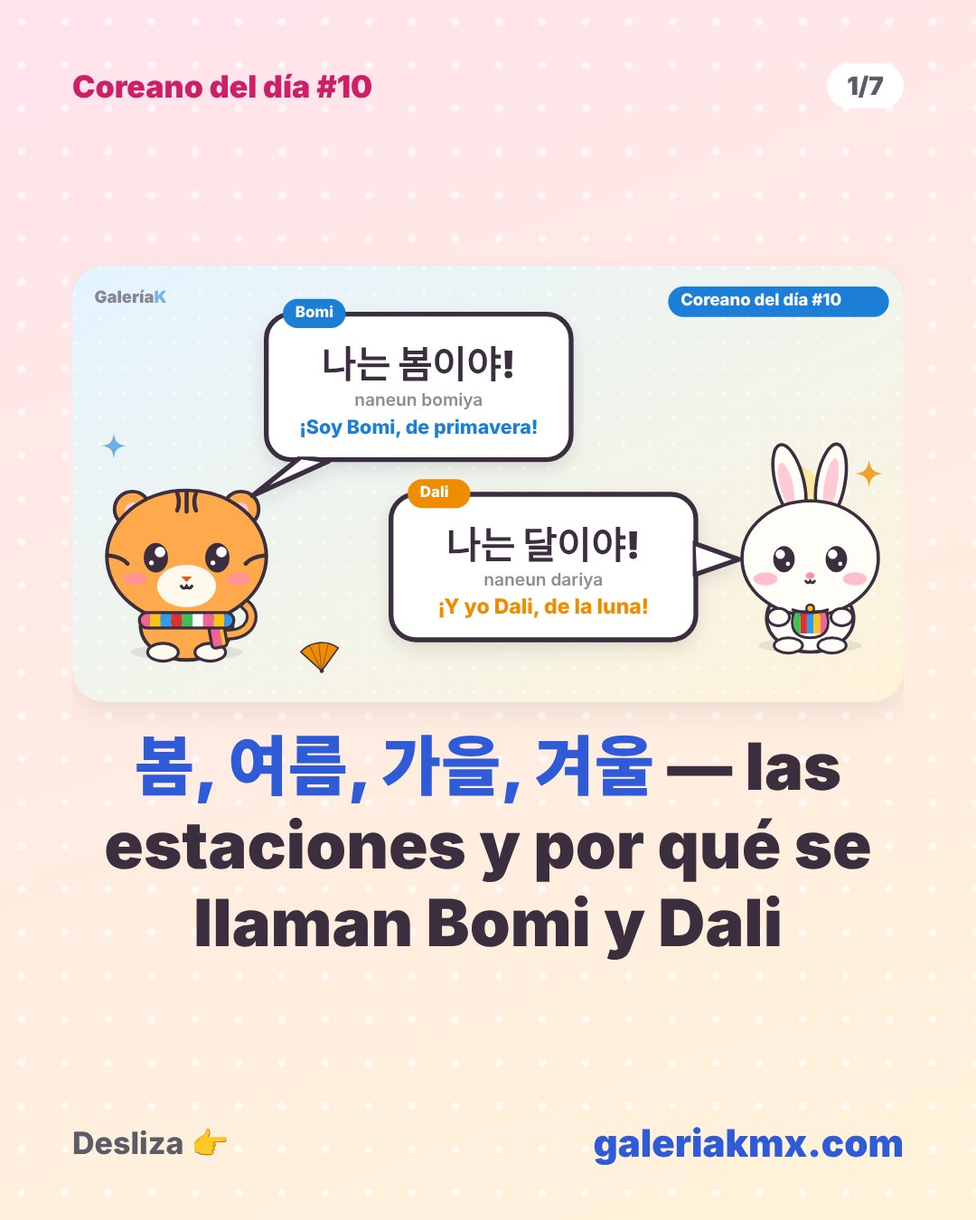
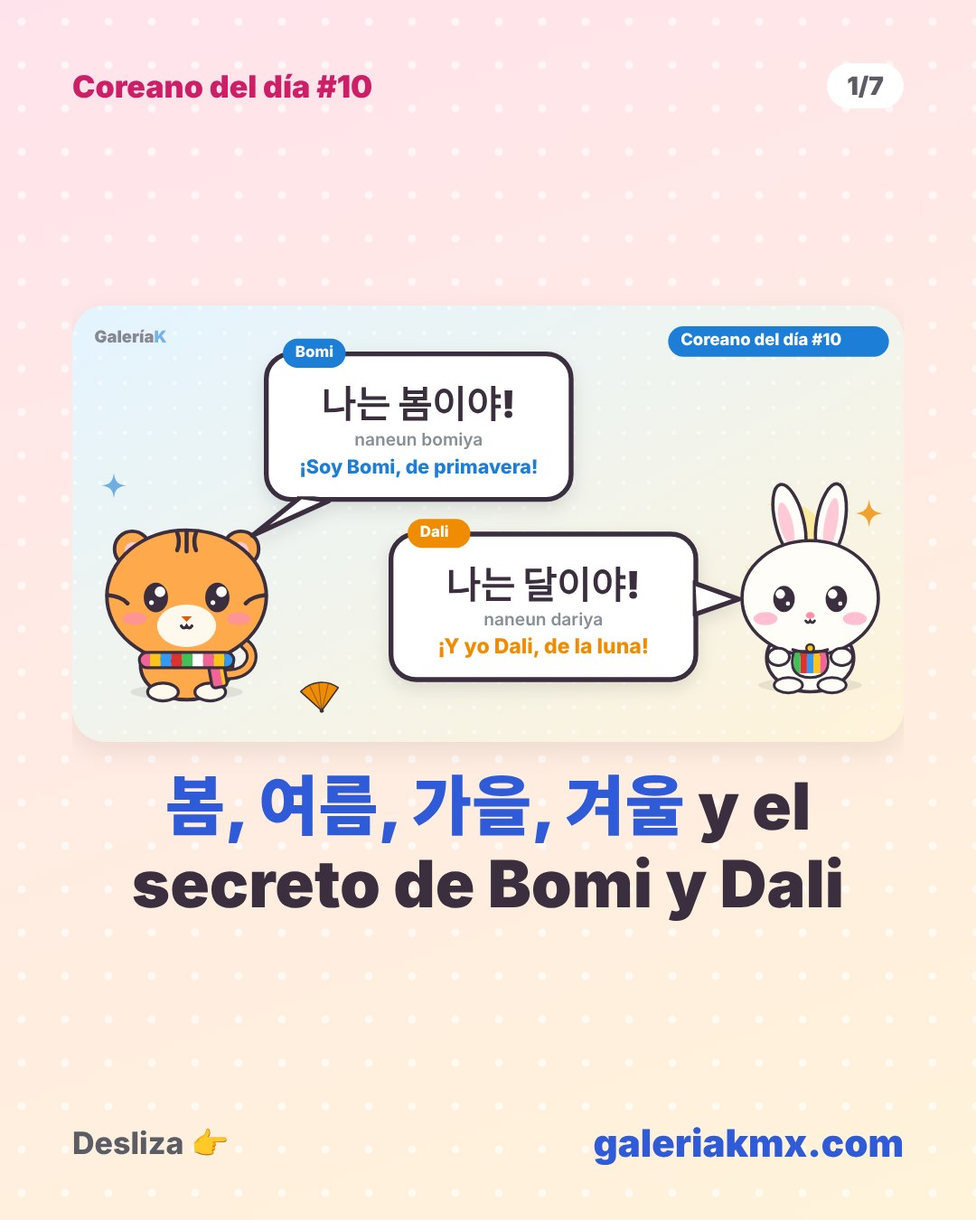
diario: título #10 ≤80 (fallo 23514 del 17-nov) y validación a 80 caracteres

Changed region(s): [[0.0611, 0.2178, 0.9167, 0.8089], [0.6722, 0.2178, 0.9167, 0.3111]]

diff --git a/site/sns/index.html b/site/sns/index.html
@@ -13,7 +13,7 @@ textarea{width:100%;box-sizing:border-box;min-height:150px;border:1px solid #ddd
 <header><h1>📲 GaleríaK 틱톡 키트</h1><p>매일 저녁 6시 37분(멕시코) 오늘의 카드뉴스(3~9장)가 틱톡 앱 받은편지함으로 자동 도착해요. 알림 열기 → 문구 확인 → 게시!</p></header>
 <main><div id="hoy"></div><div class="c how"><b>예비용: 직접 예약하는 방법 (자동 전송이 안 될 때)</b><ol><li>아래 카드마다 <b>📤 카드뉴스 공유/저장</b>을 눌러 사진을 받아요.</li><li><a href="https://www.tiktok.com/tiktokstudio/upload" target="_blank" rel="noopener">TikTok Studio 업로드</a>에서 사진(여러 장)을 올리고, <b>📋 문구 복사</b>한 걸 설명에 붙여 넣어요.</li><li>「예약(Schedule)」을 켜고 카드에 적힌 <b>예약 시간</b>을 넣어요.</li></ol><p class="hint" style="font-size:13px;color:#666">휴대폰에서는 📤 카드뉴스 공유 → 틱톡을 고르면 바로 사진 게시물로 올라가요. 이 페이지는 매일 자동으로 새 10일 치로 바뀌어요(D1 = 가장 가까운 날).</p></div><div id="lista"></div></main>
 <script>
-const ITEMS=[{"n": 10, "slug": "010-estaciones-bomi-dali", "titulo": "Coreano del día #10: 봄, 여름, 가을, 겨울 — las estaciones y por qué se llaman Bomi y Dali", "etiqueta": "D1", "img": "/img/diario/010-estaciones-bomi-dali.svg", "texto": "📚 Coreano del día #10: 봄, 여름, 가을, 겨울 — las estaciones y por qué se llaman Bomi y Dali\n\n🐯 Bomi: 나는 봄이야! (naneun bomiya) — ¡Soy Bomi, de primavera!\n🐰 Dali: 나는 달이야! (naneun dariya) — ¡Y yo Dali, de la luna!\n\nLa lección completa, con ejemplos y mini reto, está gratis en GaleríaK 👉 galeriakmx.com (link en la bio)\n\n¿Ya sabes tu nivel de coreano? Haz el examen gratis en la web 🐯🐰\n\n#coreano #aprendecoreano #kpop #kdrama #kpopmexico", "fecha": "11/18(mié) 19:00 멕시코 = 한국 11/19 10:00", "fotos": ["/img/sns/010-estaciones-bomi-dali/01.jpg", "/img/sns/010-estaciones-bomi-dali/02.jpg", "/img/sns/010-estaciones-bomi-dali/03.jpg", "/img/sns/010-estaciones-bomi-dali/04.jpg", "/img/sns/010-estaciones-bomi-dali/05.jpg", "/img/sns/010-estaciones-bomi-dali/06.jpg", "/img/sns/010-estaciones-bomi-dali/07.jpg"]}, {"n": 0, "slug": "examen", "titulo": "Examen de coreano gratis (publicación fija)", "etiqueta": "D2", "img": "/img/mascotas/bomi-dali.svg", "examen": true, "texto": "¿Qué tanto coreano sabes? 🇰🇷\n\nHaz gratis el examen estilo TOPIK de GaleríaK: 30 preguntas de vocabulario, lectura y audio, con tu nivel del 1 al 6 y explicaciones en español. Sin cuenta.\n\n👉 galeriakmx.com/examen-coreano (link en la bio)\n\nComparte tu resultado y reta a tus amigas y amigos 🐯🐰\n\n#coreano #aprendecoreano #kpop #kdrama #kpopmexico", "fotos": ["/img/sns/examen/01.jpg", "/img/sns/examen/02.jpg", "/img/sns/examen/03.jpg"], "fecha": "11/19(jue) 19:00 멕시코 = 한국 11/20 10:00"}, {"n": 11, "slug": "011-comentarios-apoyo", "titulo": "Coreano del día #11: Comentarios en coreano para apoyar a tu grupo favorito", "etiqueta": "D3", "img": "/img/diario/011-comentarios-apoyo.svg", "texto": "📚 Coreano del día #11: Comentarios en coreano para apoyar a tu grupo favorito\n\n수고했어요! (sugohaesseoyo) = ¡Buen trabajo!\n\nLa lección completa, con ejemplos y mini reto, está gratis en GaleríaK 👉 galeriakmx.com (link en la bio)\n\n¿Ya sabes tu nivel de coreano? Haz el examen gratis en la web 🐯🐰\n\n#coreano #aprendecoreano #kpop #kdrama #kpopmexico", "fecha": "11/20(vie) 19:00 멕시코 = 한국 11/21 10:00", "fotos": ["/img/sns/011-comentarios-apoyo/01.jpg", "/img/sns/011-comentarios-apoyo/02.jpg", "/img/sns/011-comentarios-apoyo/03.jpg", "/img/sns/011-comentarios-apoyo/04.jpg", "/img/sns/011-comentarios-apoyo/05.jpg", "/img/sns/011-comentarios-apoyo/06.jpg", "/img/sns/011-comentarios-apoyo/07.jpg"]}, {"n": 12, "slug": "012-dias-semana", "titulo": "Coreano del día #12: Los días de la semana en coreano y su secreto planetario", "etiqueta": "D4", "img": "/img/diario/012-dias-semana.svg", "texto": "📚 Coreano del día #12: Los días de la semana en coreano y su secreto planetario\n\n🐯 Bomi: 무슨 요일이야? (museun yoiriya?) — ¿Qué día es hoy?\n🐰 Dali: 금요일이야! (geumyoiriya) — ¡Es viernes!\n\nLa lección completa, con ejemplos y mini reto, está gratis en GaleríaK 👉 galeriakmx.com (link en la bio)\n\n¿Ya sabes tu nivel de coreano? Haz el examen gratis en la web 🐯🐰\n\n#coreano #aprendecoreano #kpop #kdrama #kpopmexico", "fecha": "11/21(sáb) 19:00 멕시코 = 한국 11/22 10:00", "fotos": ["/img/sns/012-dias-semana/01.jpg", "/img/sns/012-dias-semana/02.jpg", "/img/sns/012-dias-semana/03.jpg", "/img/sns/012-dias-semana/04.jpg", "/img/sns/012-dias-semana/05.jpg", "/img/sns/012-dias-semana/06.jpg", "/img/sns/012-dias-semana/07.jpg", "/img/sns/012-dias-semana/08.jpg"]}, {"n": 13, "slug": "013-reacciones", "titulo": "Coreano del día #13: 헐, 아이고 y 어머 — reacciones coreanas que usarás todos los días", "etiqueta": "D5", "img": "/img/diario/013-reacciones.svg", "texto": "📚 Coreano del día #13: 헐, 아이고 y 어머 — reacciones coreanas que usarás todos los días\n\n헐! (heol) = ¡No puede ser!\n\nLa lección completa, con ejemplos y mini reto, está gratis en GaleríaK 👉 galeriakmx.com (link en la bio)\n\n¿Ya sabes tu nivel de coreano? Haz el examen gratis en la web 🐯🐰\n\n#coreano #aprendecoreano #kpop #kdrama #kpopmexico", "fecha": "11/22(dom) 19:00 멕시코 = 한국 11/23 10:00", "fotos": ["/img/sns/013-reacciones/01.jpg", "/img/sns/013-reacciones/02.jpg", "/img/sns/013-reacciones/03.jpg", "/img/sns/013-reacciones/04.jpg", "/img/sns/013-reacciones/05.jpg", "/img/sns/013-reacciones/06.jpg", "/img/sns/013-reacciones/07.jpg"]}, {"n": 14, "slug": "014-antojitos-invierno", "titulo": "Coreano del día #14: 붕어빵, 호떡 y 군고구마 — los antojitos del invierno coreano", "etiqueta": "D6", "img": "/img/diario/014-antojitos-invierno.svg", "texto": "📚 Coreano del día #14: 붕어빵, 호떡 y 군고구마 — los antojitos del invierno coreano\n\n붕어빵 주세요 (bungeoppang juseyo) = Un pan de pescadito, por favor\n\nLa lección completa, con ejemplos y mini reto, está gratis en GaleríaK 👉 galeriakmx.com (link en la bio)\n\n¿Ya sabes tu nivel de coreano? Haz el examen gratis en la web 🐯🐰\n\n#coreano #aprendecoreano #kpop #kdrama #kpopmexico", "fecha": "11/23(lun) 19:00 멕시코 = 한국 11/24 10:00", "fotos": ["/img/sns/014-antojitos-invierno/01.jpg", "/img/sns/014-antojitos-invierno/02.jpg", "/img/sns/014-antojitos-invierno/03.jpg", "/img/sns/014-antojitos-invierno/04.jpg", "/img/sns/014-antojitos-invierno/05.jpg", "/img/sns/014-antojitos-invierno/06.jpg", "/img/sns/014-antojitos-invierno/07.jpg"]}, {"n": 15, "slug": "015-sageuk-historicos", "titulo": "Coreano del día #15: 전하, 마마 y 궁 — el coreano de los K-Dramas históricos", "etiqueta": "D7", "img": "/img/diario/015-sageuk-historicos.svg", "texto": "📚 Coreano del día #15: 전하, 마마 y 궁 — el coreano de los K-Dramas históricos\n\n🐯 Bomi: 전하! (jeonha!) — ¡Su Majestad!\n🐰 Dali: 무슨 일이오? (museun irio?) — ¿Qué sucede?\n\nLa lección completa, con ejemplos y mini reto, está gratis en GaleríaK 👉 galeriakmx.com (link en la bio)\n\n¿Ya sabes tu nivel de coreano? Haz el examen gratis en la web 🐯🐰\n\n#coreano #aprendecoreano #kpop #kdrama #kpopmexico", "fecha": "11/24(mar) 19:00 멕시코 = 한국 11/25 10:00", "fotos": ["/img/sns/015-sageuk-historicos/01.jpg", "/img/sns/015-sageuk-historicos/02.jpg", "/img/sns/015-sageuk-historicos/03.jpg", "/img/sns/015-sageuk-historicos/04.jpg", "/img/sns/015-sageuk-historicos/05.jpg", "/img/sns/015-sageuk-historicos/06.jpg", "/img/sns/015-sageuk-historicos/07.jpg"]}, {"n": 16, "slug": "016-presentarte", "titulo": "Coreano del día #16: 저는 ___이에요 — cómo presentarte en coreano", "etiqueta": "D8", "img": "/img/diario/016-presentarte.svg", "texto": "📚 Coreano del día #16: 저는 ___이에요 — cómo presentarte en coreano\n\n저는 멕시코 사람이에요 (jeoneun meksiko saramieyo) = Soy de México\n\nLa lección completa, con ejemplos y mini reto, está gratis en GaleríaK 👉 galeriakmx.com (link en la bio)\n\n¿Ya sabes tu nivel de coreano? Haz el examen gratis en la web 🐯🐰\n\n#coreano #aprendecoreano #kpop #kdrama #kpopmexico", "fecha": "11/25(mié) 19:00 멕시코 = 한국 11/26 10:00", "fotos": ["/img/sns/016-presentarte/01.jpg", "/img/sns/016-presentarte/02.jpg", "/img/sns/016-presentarte/03.jpg", "/img/sns/016-presentarte/04.jpg", "/img/sns/016-presentarte/05.jpg", "/img/sns/016-presentarte/06.jpg", "/img/sns/016-presentarte/07.jpg"]}, {"n": 17, "slug": "017-suneung-suerte", "titulo": "Coreano del día #17: 수능 y 시험 잘 봐! — cómo desear suerte en un examen", "etiqueta": "D9", "img": "/img/diario/017-suneung-suerte.svg", "texto": "📚 Coreano del día #17: 수능 y 시험 잘 봐! — cómo desear suerte en un examen\n\n시험 잘 봐! (siheom jal bwa) = ¡Que te vaya bien en el examen!\n\nLa lección completa, con ejemplos y mini reto, está gratis en GaleríaK 👉 galeriakmx.com (link en la bio)\n\n¿Ya sabes tu nivel de coreano? Haz el examen gratis en la web 🐯🐰\n\n#coreano #aprendecoreano #kpop #kdrama #kpopmexico", "fecha": "11/26(jue) 19:00 멕시코 = 한국 11/27 10:00", "fotos": ["/img/sns/017-suneung-suerte/01.jpg", "/img/sns/017-suneung-suerte/02.jpg", "/img/sns/017-suneung-suerte/03.jpg", "/img/sns/017-suneung-suerte/04.jpg", "/img/sns/017-suneung-suerte/05.jpg", "/img/sns/017-suneung-suerte/06.jpg", "/img/sns/017-suneung-suerte/07.jpg"]}, {"n": 18, "slug": "018-roles-grupo", "titulo": "Coreano del día #18: 리더, 막내 y 센터 — los roles dentro de un grupo de K-Pop", "etiqueta": "D10", "img": "/img/diario/018-roles-grupo.svg", "texto": "📚 Coreano del día #18: 리더, 막내 y 센터 — los roles dentro de un grupo de K-Pop\n\n🐯 Bomi: 누가 막내야? (nuga maknaeya?) — ¿Quién es el maknae?\n🐰 Dali: 내가 막내야! (naega maknaeya!) — ¡Yo soy la maknae!\n\nLa lección completa, con ejemplos y mini reto, está gratis en GaleríaK 👉 galeriakmx.com (link en la bio)\n\n¿Ya sabes tu nivel de coreano? Haz el examen gratis en la web 🐯🐰\n\n#coreano #aprendecoreano #kpop #kdrama #kpopmexico", "fecha": "11/27(vie) 19:00 멕시코 = 한국 11/28 10:00", "fotos": ["/img/sns/018-roles-grupo/01.jpg", "/img/sns/018-roles-grupo/02.jpg", "/img/sns/018-roles-grupo/03.jpg", "/img/sns/018-roles-grupo/04.jpg", "/img/sns/018-roles-grupo/05.jpg", "/img/sns/018-roles-grupo/06.jpg", "/img/sns/018-roles-grupo/07.jpg", "/img/sns/018-roles-grupo/08.jpg"]}, {"n": 9, "slug": "009-kdrama-oficina", "titulo": "Coreano del día #9: El coreano de los K-Dramas de oficina: 출근, 퇴근 y 회식", "etiqueta": "Anterior", "img": "/img/diario/009-kdrama-oficina.svg", "texto": "📚 Coreano del día #9: El coreano de los K-Dramas de oficina: 출근, 퇴근 y 회식\n\n퇴근! (toegeun) = ¡Hora de salir del trabajo!\n\nLa lección completa, con ejemplos y mini reto, está gratis en GaleríaK 👉 galeriakmx.com (link en la bio)\n\n¿Ya sabes tu nivel de coreano? Haz el examen gratis en la web 🐯🐰\n\n#coreano #aprendecoreano #kpop #kdrama #kpopmexico", "fotos": ["/img/sns/009-kdrama-oficina/01.jpg", "/img/sns/009-kdrama-oficina/02.jpg", "/img/sns/009-kdrama-oficina/03.jpg", "/img/sns/009-kdrama-oficina/04.jpg", "/img/sns/009-kdrama-oficina/05.jpg", "/img/sns/009-kdrama-oficina/06.jpg", "/img/sns/009-kdrama-oficina/07.jpg", "/img/sns/009-kdrama-oficina/08.jpg", "/img/sns/009-kdrama-oficina/09.jpg"]}, {"n": 8, "slug": "008-saludos-despedidas", "titulo": "Coreano del día #8: 안녕하세요, 안녕히 가세요 y 안녕히 계세요 — cómo saludar y despedirse", "etiqueta": "Anterior", "img": "/img/diario/008-saludos-despedidas.svg", "texto": "📚 Coreano del día #8: 안녕하세요, 안녕히 가세요 y 안녕히 계세요 — cómo saludar y despedirse\n\n안녕히 계세요 (annyeonghi gyeseyo) = Adiós (cuando tú te vas)\n\nLa lección completa, con ejemplos y mini reto, está gratis en GaleríaK 👉 galeriakmx.com (link en la bio)\n\n¿Ya sabes tu nivel de coreano? Haz el examen gratis en la web 🐯🐰\n\n#coreano #aprendecoreano #kpop #kdrama #kpopmexico", "fotos": ["/img/sns/008-saludos-despedidas/01.jpg", "/img/sns/008-saludos-despedidas/02.jpg", "/img/sns/008-saludos-despedidas/03.jpg", "/img/sns/008-saludos-despedidas/04.jpg", "/img/sns/008-saludos-despedidas/05.jpg", "/img/sns/008-saludos-despedidas/06.jpg", "/img/sns/008-saludos-despedidas/07.jpg"]}, {"n": 7, "slug": "007-konglish", "titulo": "Coreano del día #7: Konglish, el inglés «a la coreana» que escuchas en el K-Pop", "etiqueta": "Anterior", "img": "/img/diario/007-konglish.svg", "texto": "📚 Coreano del día #7: Konglish, el inglés «a la coreana» que escuchas en el K-Pop\n\n🐰 Dali: 내일 시험이야… (naeil siheomiya) — Mañana tengo examen…\n🐯 Bomi: 파이팅! (paiting) — ¡Ánimo! ¡Tú puedes!\n\nLa lección completa, con ejemplos y mini reto, está gratis en GaleríaK 👉 galeriakmx.com (link en la bio)\n\n¿Ya sabes tu nivel de coreano? Haz el examen gratis en la web 🐯🐰\n\n#coreano #aprendecoreano #kpop #kdrama #kpopmexico", "fotos": ["/img/sns/007-konglish/01.jpg", "/img/sns/007-konglish/02.jpg", "/img/sns/007-konglish/03.jpg", "/img/sns/007-konglish/04.jpg", "/img/sns/007-konglish/05.jpg", "/img/sns/007-konglish/06.jpg", "/img/sns/007-konglish/07.jpg"]}, {"n": 6, "slug": "006-te-quiero", "titulo": "Coreano del día #6: ¿좋아해 o 사랑해? Cómo decir «me gustas» y «te quiero»", "etiqueta": "Anterior", "img": "/img/diario/006-te-quiero.svg", "texto": "📚 Coreano del día #6: ¿좋아해 o 사랑해? Cómo decir «me gustas» y «te quiero»\n\n좋아해 (joahae) = Me gustas\n\nLa lección completa, con ejemplos y mini reto, está gratis en GaleríaK 👉 galeriakmx.com (link en la bio)\n\n¿Ya sabes tu nivel de coreano? Haz el examen gratis en la web 🐯🐰\n\n#coreano #aprendecoreano #kpop #kdrama #kpopmexico", "fotos": ["/img/sns/006-te-quiero/01.jpg", "/img/sns/006-te-quiero/02.jpg", "/img/sns/006-te-quiero/03.jpg", "/img/sns/006-te-quiero/04.jpg", "/img/sns/006-te-quiero/05.jpg", "/img/sns/006-te-quiero/06.jpg"]}];
+const ITEMS=[{"n": 10, "slug": "010-estaciones-bomi-dali", "titulo": "Coreano del día #10: 봄, 여름, 가을, 겨울 y el secreto de Bomi y Dali", "etiqueta": "D1", "img": "/img/diario/010-estaciones-bomi-dali.svg", "texto": "📚 Coreano del día #10: 봄, 여름, 가을, 겨울 y el secreto de Bomi y Dali\n\n🐯 Bomi: 나는 봄이야! (naneun bomiya) — ¡Soy Bomi, de primavera!\n🐰 Dali: 나는 달이야! (naneun dariya) — ¡Y yo Dali, de la luna!\n\nLa lección completa, con ejemplos y mini reto, está gratis en GaleríaK 👉 galeriakmx.com (link en la bio)\n\n¿Ya sabes tu nivel de coreano? Haz el examen gratis en la web 🐯🐰\n\n#coreano #aprendecoreano #kpop #kdrama #kpopmexico", "fecha": "11/18(mié) 19:00 멕시코 = 한국 11/19 10:00", "fotos": ["/img/sns/010-estaciones-bomi-dali/01.jpg", "/img/sns/010-estaciones-bomi-dali/02.jpg", "/img/sns/010-estaciones-bomi-dali/03.jpg", "/img/sns/010-estaciones-bomi-dali/04.jpg", "/img/sns/010-estaciones-bomi-dali/05.jpg", "/img/sns/010-estaciones-bomi-dali/06.jpg", "/img/sns/010-estaciones-bomi-dali/07.jpg"]}, {"n": 0, "slug": "examen", "titulo": "Examen de coreano gratis (publicación fija)", "etiqueta": "D2", "img": "/img/mascotas/bomi-dali.svg", "examen": true, "texto": "¿Qué tanto coreano sabes? 🇰🇷\n\nHaz gratis el examen estilo TOPIK de GaleríaK: 30 preguntas de vocabulario, lectura y audio, con tu nivel del 1 al 6 y explicaciones en español. Sin cuenta.\n\n👉 galeriakmx.com/examen-coreano (link en la bio)\n\nComparte tu resultado y reta a tus amigas y amigos 🐯🐰\n\n#coreano #aprendecoreano #kpop #kdrama #kpopmexico", "fotos": ["/img/sns/examen/01.jpg", "/img/sns/examen/02.jpg", "/img/sns/examen/03.jpg"], "fecha": "11/19(jue) 19:00 멕시코 = 한국 11/20 10:00"}, {"n": 11, "slug": "011-comentarios-apoyo", "titulo": "Coreano del día #11: Comentarios en coreano para apoyar a tu grupo favorito", "etiqueta": "D3", "img": "/img/diario/011-comentarios-apoyo.svg", "texto": "📚 Coreano del día #11: Comentarios en coreano para apoyar a tu grupo favorito\n\n수고했어요! (sugohaesseoyo) = ¡Buen trabajo!\n\nLa lección completa, con ejemplos y mini reto, está gratis en GaleríaK 👉 galeriakmx.com (link en la bio)\n\n¿Ya sabes tu nivel de coreano? Haz el examen gratis en la web 🐯🐰\n\n#coreano #aprendecoreano #kpop #kdrama #kpopmexico", "fecha": "11/20(vie) 19:00 멕시코 = 한국 11/21 10:00", "fotos": ["/img/sns/011-comentarios-apoyo/01.jpg", "/img/sns/011-comentarios-apoyo/02.jpg", "/img/sns/011-comentarios-apoyo/03.jpg", "/img/sns/011-comentarios-apoyo/04.jpg", "/img/sns/011-comentarios-apoyo/05.jpg", "/img/sns/011-comentarios-apoyo/06.jpg", "/img/sns/011-comentarios-apoyo/07.jpg"]}, {"n": 12, "slug": "012-dias-semana", "titulo": "Coreano del día #12: Los días de la semana en coreano y su secreto planetario", "etiqueta": "D4", "img": "/img/diario/012-dias-semana.svg", "texto": "📚 Coreano del día #12: Los días de la semana en coreano y su secreto planetario\n\n🐯 Bomi: 무슨 요일이야? (museun yoiriya?) — ¿Qué día es hoy?\n🐰 Dali: 금요일이야! (geumyoiriya) — ¡Es viernes!\n\nLa lección completa, con ejemplos y mini reto, está gratis en GaleríaK 👉 galeriakmx.com (link en la bio)\n\n¿Ya sabes tu nivel de coreano? Haz el examen gratis en la web 🐯🐰\n\n#coreano #aprendecoreano #kpop #kdrama #kpopmexico", "fecha": "11/21(sáb) 19:00 멕시코 = 한국 11/22 10:00", "fotos": ["/img/sns/012-dias-semana/01.jpg", "/img/sns/012-dias-semana/02.jpg", "/img/sns/012-dias-semana/03.jpg", "/img/sns/012-dias-semana/04.jpg", "/img/sns/012-dias-semana/05.jpg", "/img/sns/012-dias-semana/06.jpg", "/img/sns/012-dias-semana/07.jpg", "/img/sns/012-dias-semana/08.jpg"]}, {"n": 13, "slug": "013-reacciones", "titulo": "Coreano del día #13: 헐, 아이고 y 어머 — reacciones coreanas que usarás todos los días", "etiqueta": "D5", "img": "/img/diario/013-reacciones.svg", "texto": "📚 Coreano del día #13: 헐, 아이고 y 어머 — reacciones coreanas que usarás todos los días\n\n헐! (heol) = ¡No puede ser!\n\nLa lección completa, con ejemplos y mini reto, está gratis en GaleríaK 👉 galeriakmx.com (link en la bio)\n\n¿Ya sabes tu nivel de coreano? Haz el examen gratis en la web 🐯🐰\n\n#coreano #aprendecoreano #kpop #kdrama #kpopmexico", "fecha": "11/22(dom) 19:00 멕시코 = 한국 11/23 10:00", "fotos": ["/img/sns/013-reacciones/01.jpg", "/img/sns/013-reacciones/02.jpg", "/img/sns/013-reacciones/03.jpg", "/img/sns/013-reacciones/04.jpg", "/img/sns/013-reacciones/05.jpg", "/img/sns/013-reacciones/06.jpg", "/img/sns/013-reacciones/07.jpg"]}, {"n": 14, "slug": "014-antojitos-invierno", "titulo": "Coreano del día #14: 붕어빵, 호떡 y 군고구마 — los antojitos del invierno coreano", "etiqueta": "D6", "img": "/img/diario/014-antojitos-invierno.svg", "texto": "📚 Coreano del día #14: 붕어빵, 호떡 y 군고구마 — los antojitos del invierno coreano\n\n붕어빵 주세요 (bungeoppang juseyo) = Un pan de pescadito, por favor\n\nLa lección completa, con ejemplos y mini reto, está gratis en GaleríaK 👉 galeriakmx.com (link en la bio)\n\n¿Ya sabes tu nivel de coreano? Haz el examen gratis en la web 🐯🐰\n\n#coreano #aprendecoreano #kpop #kdrama #kpopmexico", "fecha": "11/23(lun) 19:00 멕시코 = 한국 11/24 10:00", "fotos": ["/img/sns/014-antojitos-invierno/01.jpg", "/img/sns/014-antojitos-invierno/02.jpg", "/img/sns/014-antojitos-invierno/03.jpg", "/img/sns/014-antojitos-invierno/04.jpg", "/img/sns/014-antojitos-invierno/05.jpg", "/img/sns/014-antojitos-invierno/06.jpg", "/img/sns/014-antojitos-invierno/07.jpg"]}, {"n": 15, "slug": "015-sageuk-historicos", "titulo": "Coreano del día #15: 전하, 마마 y 궁 — el coreano de los K-Dramas históricos", "etiqueta": "D7", "img": "/img/diario/015-sageuk-historicos.svg", "texto": "📚 Coreano del día #15: 전하, 마마 y 궁 — el coreano de los K-Dramas históricos\n\n🐯 Bomi: 전하! (jeonha!) — ¡Su Majestad!\n🐰 Dali: 무슨 일이오? (museun irio?) — ¿Qué sucede?\n\nLa lección completa, con ejemplos y mini reto, está gratis en GaleríaK 👉 galeriakmx.com (link en la bio)\n\n¿Ya sabes tu nivel de coreano? Haz el examen gratis en la web 🐯🐰\n\n#coreano #aprendecoreano #kpop #kdrama #kpopmexico", "fecha": "11/24(mar) 19:00 멕시코 = 한국 11/25 10:00", "fotos": ["/img/sns/015-sageuk-historicos/01.jpg", "/img/sns/015-sageuk-historicos/02.jpg", "/img/sns/015-sageuk-historicos/03.jpg", "/img/sns/015-sageuk-historicos/04.jpg", "/img/sns/015-sageuk-historicos/05.jpg", "/img/sns/015-sageuk-historicos/06.jpg", "/img/sns/015-sageuk-historicos/07.jpg"]}, {"n": 16, "slug": "016-presentarte", "titulo": "Coreano del día #16: 저는 ___이에요 — cómo presentarte en coreano", "etiqueta": "D8", "img": "/img/diario/016-presentarte.svg", "texto": "📚 Coreano del día #16: 저는 ___이에요 — cómo presentarte en coreano\n\n저는 멕시코 사람이에요 (jeoneun meksiko saramieyo) = Soy de México\n\nLa lección completa, con ejemplos y mini reto, está gratis en GaleríaK 👉 galeriakmx.com (link en la bio)\n\n¿Ya sabes tu nivel de coreano? Haz el examen gratis en la web 🐯🐰\n\n#coreano #aprendecoreano #kpop #kdrama #kpopmexico", "fecha": "11/25(mié) 19:00 멕시코 = 한국 11/26 10:00", "fotos": ["/img/sns/016-presentarte/01.jpg", "/img/sns/016-presentarte/02.jpg", "/img/sns/016-presentarte/03.jpg", "/img/sns/016-presentarte/04.jpg", "/img/sns/016-presentarte/05.jpg", "/img/sns/016-presentarte/06.jpg", "/img/sns/016-presentarte/07.jpg"]}, {"n": 17, "slug": "017-suneung-suerte", "titulo": "Coreano del día #17: 수능 y 시험 잘 봐! — cómo desear suerte en un examen", "etiqueta": "D9", "img": "/img/diario/017-suneung-suerte.svg", "texto": "📚 Coreano del día #17: 수능 y 시험 잘 봐! — cómo desear suerte en un examen\n\n시험 잘 봐! (siheom jal bwa) = ¡Que te vaya bien en el examen!\n\nLa lección completa, con ejemplos y mini reto, está gratis en GaleríaK 👉 galeriakmx.com (link en la bio)\n\n¿Ya sabes tu nivel de coreano? Haz el examen gratis en la web 🐯🐰\n\n#coreano #aprendecoreano #kpop #kdrama #kpopmexico", "fecha": "11/26(jue) 19:00 멕시코 = 한국 11/27 10:00", "fotos": ["/img/sns/017-suneung-suerte/01.jpg", "/img/sns/017-suneung-suerte/02.jpg", "/img/sns/017-suneung-suerte/03.jpg", "/img/sns/017-suneung-suerte/04.jpg", "/img/sns/017-suneung-suerte/05.jpg", "/img/sns/017-suneung-suerte/06.jpg", "/img/sns/017-suneung-suerte/07.jpg"]}, {"n": 18, "slug": "018-roles-grupo", "titulo": "Coreano del día #18: 리더, 막내 y 센터 — los roles dentro de un grupo de K-Pop", "etiqueta": "D10", "img": "/img/diario/018-roles-grupo.svg", "texto": "📚 Coreano del día #18: 리더, 막내 y 센터 — los roles dentro de un grupo de K-Pop\n\n🐯 Bomi: 누가 막내야? (nuga maknaeya?) — ¿Quién es el maknae?\n🐰 Dali: 내가 막내야! (naega maknaeya!) — ¡Yo soy la maknae!\n\nLa lección completa, con ejemplos y mini reto, está gratis en GaleríaK 👉 galeriakmx.com (link en la bio)\n\n¿Ya sabes tu nivel de coreano? Haz el examen gratis en la web 🐯🐰\n\n#coreano #aprendecoreano #kpop #kdrama #kpopmexico", "fecha": "11/27(vie) 19:00 멕시코 = 한국 11/28 10:00", "fotos": ["/img/sns/018-roles-grupo/01.jpg", "/img/sns/018-roles-grupo/02.jpg", "/img/sns/018-roles-grupo/03.jpg", "/img/sns/018-roles-grupo/04.jpg", "/img/sns/018-roles-grupo/05.jpg", "/img/sns/018-roles-grupo/06.jpg", "/img/sns/018-roles-grupo/07.jpg", "/img/sns/018-roles-grupo/08.jpg"]}, {"n": 9, "slug": "009-kdrama-oficina", "titulo": "Coreano del día #9: El coreano de los K-Dramas de oficina: 출근, 퇴근 y 회식", "etiqueta": "Anterior", "img": "/img/diario/009-kdrama-oficina.svg", "texto": "📚 Coreano del día #9: El coreano de los K-Dramas de oficina: 출근, 퇴근 y 회식\n\n퇴근! (toegeun) = ¡Hora de salir del trabajo!\n\nLa lección completa, con ejemplos y mini reto, está gratis en GaleríaK 👉 galeriakmx.com (link en la bio)\n\n¿Ya sabes tu nivel de coreano? Haz el examen gratis en la web 🐯🐰\n\n#coreano #aprendecoreano #kpop #kdrama #kpopmexico", "fotos": ["/img/sns/009-kdrama-oficina/01.jpg", "/img/sns/009-kdrama-oficina/02.jpg", "/img/sns/009-kdrama-oficina/03.jpg", "/img/sns/009-kdrama-oficina/04.jpg", "/img/sns/009-kdrama-oficina/05.jpg", "/img/sns/009-kdrama-oficina/06.jpg", "/img/sns/009-kdrama-oficina/07.jpg", "/img/sns/009-kdrama-oficina/08.jpg", "/img/sns/009-kdrama-oficina/09.jpg"]}, {"n": 8, "slug": "008-saludos-despedidas", "titulo": "Coreano del día #8: 안녕하세요, 안녕히 가세요 y 안녕히 계세요 — cómo saludar y despedirse", "etiqueta": "Anterior", "img": "/img/diario/008-saludos-despedidas.svg", "texto": "📚 Coreano del día #8: 안녕하세요, 안녕히 가세요 y 안녕히 계세요 — cómo saludar y despedirse\n\n안녕히 계세요 (annyeonghi gyeseyo) = Adiós (cuando tú te vas)\n\nLa lección completa, con ejemplos y mini reto, está gratis en GaleríaK 👉 galeriakmx.com (link en la bio)\n\n¿Ya sabes tu nivel de coreano? Haz el examen gratis en la web 🐯🐰\n\n#coreano #aprendecoreano #kpop #kdrama #kpopmexico", "fotos": ["/img/sns/008-saludos-despedidas/01.jpg", "/img/sns/008-saludos-despedidas/02.jpg", "/img/sns/008-saludos-despedidas/03.jpg", "/img/sns/008-saludos-despedidas/04.jpg", "/img/sns/008-saludos-despedidas/05.jpg", "/img/sns/008-saludos-despedidas/06.jpg", "/img/sns/008-saludos-despedidas/07.jpg"]}, {"n": 7, "slug": "007-konglish", "titulo": "Coreano del día #7: Konglish, el inglés «a la coreana» que escuchas en el K-Pop", "etiqueta": "Anterior", "img": "/img/diario/007-konglish.svg", "texto": "📚 Coreano del día #7: Konglish, el inglés «a la coreana» que escuchas en el K-Pop\n\n🐰 Dali: 내일 시험이야… (naeil siheomiya) — Mañana tengo examen…\n🐯 Bomi: 파이팅! (paiting) — ¡Ánimo! ¡Tú puedes!\n\nLa lección completa, con ejemplos y mini reto, está gratis en GaleríaK 👉 galeriakmx.com (link en la bio)\n\n¿Ya sabes tu nivel de coreano? Haz el examen gratis en la web 🐯🐰\n\n#coreano #aprendecoreano #kpop #kdrama #kpopmexico", "fotos": ["/img/sns/007-konglish/01.jpg", "/img/sns/007-konglish/02.jpg", "/img/sns/007-konglish/03.jpg", "/img/sns/007-konglish/04.jpg", "/img/sns/007-konglish/05.jpg", "/img/sns/007-konglish/06.jpg", "/img/sns/007-konglish/07.jpg"]}, {"n": 6, "slug": "006-te-quiero", "titulo": "Coreano del día #6: ¿좋아해 o 사랑해? Cómo decir «me gustas» y «te quiero»", "etiqueta": "Anterior", "img": "/img/diario/006-te-quiero.svg", "texto": "📚 Coreano del día #6: ¿좋아해 o 사랑해? Cómo decir «me gustas» y «te quiero»\n\n좋아해 (joahae) = Me gustas\n\nLa lección completa, con ejemplos y mini reto, está gratis en GaleríaK 👉 galeriakmx.com (link en la bio)\n\n¿Ya sabes tu nivel de coreano? Haz el examen gratis en la web 🐯🐰\n\n#coreano #aprendecoreano #kpop #kdrama #kpopmexico", "fotos": ["/img/sns/006-te-quiero/01.jpg", "/img/sns/006-te-quiero/02.jpg", "/img/sns/006-te-quiero/03.jpg", "/img/sns/006-te-quiero/04.jpg", "/img/sns/006-te-quiero/05.jpg", "/img/sns/006-te-quiero/06.jpg"]}];
 const F="system-ui,-apple-system,'Segoe UI',Roboto,'Noto Sans KR',sans-serif";
 function lienzo(it){return new Promise(res=>{const W=1080,H=1350,c=document.createElement('canvas');c.width=W;c.height=H;const x=c.getContext('2d');
  const g=x.createLinearGradient(0,0,W,H);g.addColorStop(0,'#ffe3ec');g.addColorStop(1,'#fff3d9');x.fillStyle=g;x.fillRect(0,0,W,H);

diff --git a/CLAUDE.md b/CLAUDE.md
@@ -192,7 +192,7 @@ SETUP.md                 사용자가 직접 해야 할 일 체크리스트
 - 사진 업로드는 기존대로 Lv.2(DB 정책 `gk_puede_fotos`).
 
 ## 28. Coreano del día · 시험 레벨 선택 (2026-11-09)
-- 매일 한국어 공부 글: 대기열 `content/diario/cola/NNN-slug.json` `{tema, title, body}` → `scripts/publicar-diario.mjs`(검증: 제목 8–120, 본문 300–6000·한글 필수·사진 금지) → `.github/workflows/diario.yml`(매일 14:13 UTC = 8:13 CDMX)이 맨 앞 파일 1개를 `coreano` 갤러리에 관리자 명의로 게시(같은 제목 있으면 건너뜀) → `content/diario/publicadas/`로 이동, `content/diario/ultima.json` 기록. 테스트 `scripts/publicar-diario.test.mjs`(대기열 전체 검증). 첫 7편(#1–#7) 작성 완료.
+- 매일 한국어 공부 글: 대기열 `content/diario/cola/NNN-slug.json` `{tema, title, body}` → `scripts/publicar-diario.mjs`(검증: 제목 8–80 — posts 표 제약, 2026-11-17 #10 제목 83자로 게시 실패(23514), 본문 300–6000·한글 필수·사진 금지) → `.github/workflows/diario.yml`(매일 14:13 UTC = 8:13 CDMX)이 맨 앞 파일 1개를 `coreano` 갤러리에 관리자 명의로 게시(같은 제목 있으면 건너뜀) → `content/diario/publicadas/`로 이동, `content/diario/ultima.json` 기록. 테스트 `scripts/publicar-diario.test.mjs`(대기열 전체 검증). 첫 7편(#1–#7) 작성 완료.
 - 예약 작업 「GaleríaK 매일 한국어 콘텐츠」(`trig_01N7BX964RgDKmmAceyzmNgs`, 매일 21:17 America/Mexico_City): Claude가 새 레슨 1편(대기열 3편 미만이면 2편)을 써서 푸시. 규칙: 오리지널만, 가사·드라마 대사·기사 인용 금지, 실존 인물 루머·연애/성적 내용 금지, 주제(tema) 돌려가며 중복 금지, 한국어 맞춤법·로마자 확인.
 - 시험 레벨 선택: `MODES`(todo 1–6 / basico 1–2 / intermedio 3–4 / avanzado 5–6, 모두 30문항). basico V{1:6,2:6}R{1:3,2:3}L{1:6,2:6}, intermedio·avanzado V6+6 R6+6 L3+3(듣기 문항이 레벨당 6개뿐이라 2회 무중복). `pickExam(seen,rand,modo)`, `grade(ans,qs,modo)` → level은 lo-1부터, `bajo`(첫 레벨 미달 → 결과에 「Aún no alcanzas …」·아래 레벨 추천), `tope`(최고 레벨 통과 → 다음 레벨 추천). 선택값 localStorage `gk-examen-modo`, URL `?nivel=basico|intermedio|avanzado`, `st.modo`. 테스트 2개 추가.
 

diff --git a/정리.md b/정리.md
@@ -1,6 +1,7 @@
 # GaleríaK 작업 정리 · 자주 묻는 질문 (2026-11-08 기준)
 
 > **사용법:** 새 질문이 오면 Claude는 먼저 이 파일에서 답을 찾는다(`grep -n "키워드" 정리.md`). 여기에 답이 있으면 웹 검색이나 파일 탐색 없이 바로 답한다. 새로 정해지거나 바뀐 것은 이 파일 맨 아래 「변경 기록」에 한 줄로 추가한다.
+- 2026-11-18: 11-17 「Coreano del día #10」 게시 실패 원인 = 제목 83자(게시판 제목 최대 80자 제약). #10 제목을 줄이고, 검사기도 80자로 맞춤 → 11-18 아침에 #10부터 정상 게시 예정.
 - 2026-11-11: 틱톡을 동영상 대신 카드뉴스(3~9장)로 변경 — 매일 18:37(멕시코) 사진 여러 장 + 문구가 틱톡 받은편지함 초안으로 도착. 관리자 📲 틱톡 탭·/sns/에서 사진 줄로 확인.
 - 2026-11-10: 틱톡 자동 전송 — 매일 18:37(멕시코) 오늘 레슨 영상을 틱톡 앱 받은편지함으로 보냄(무료 방식, 사용자는 알림 열고 문구 붙여 게시). 연결은 galeriakmx.com/tiktok/.
 - 2026-11-10: 틱톡 키트 — https://galeriakmx.com/sns/ 에 10일 치 틱톡 동영상(1080×1920)·스페인어 문구·예약 시간. TikTok Studio(컴퓨터)에서 열흘에 한 번 예약. 인스타·페이스북은 나중에.
